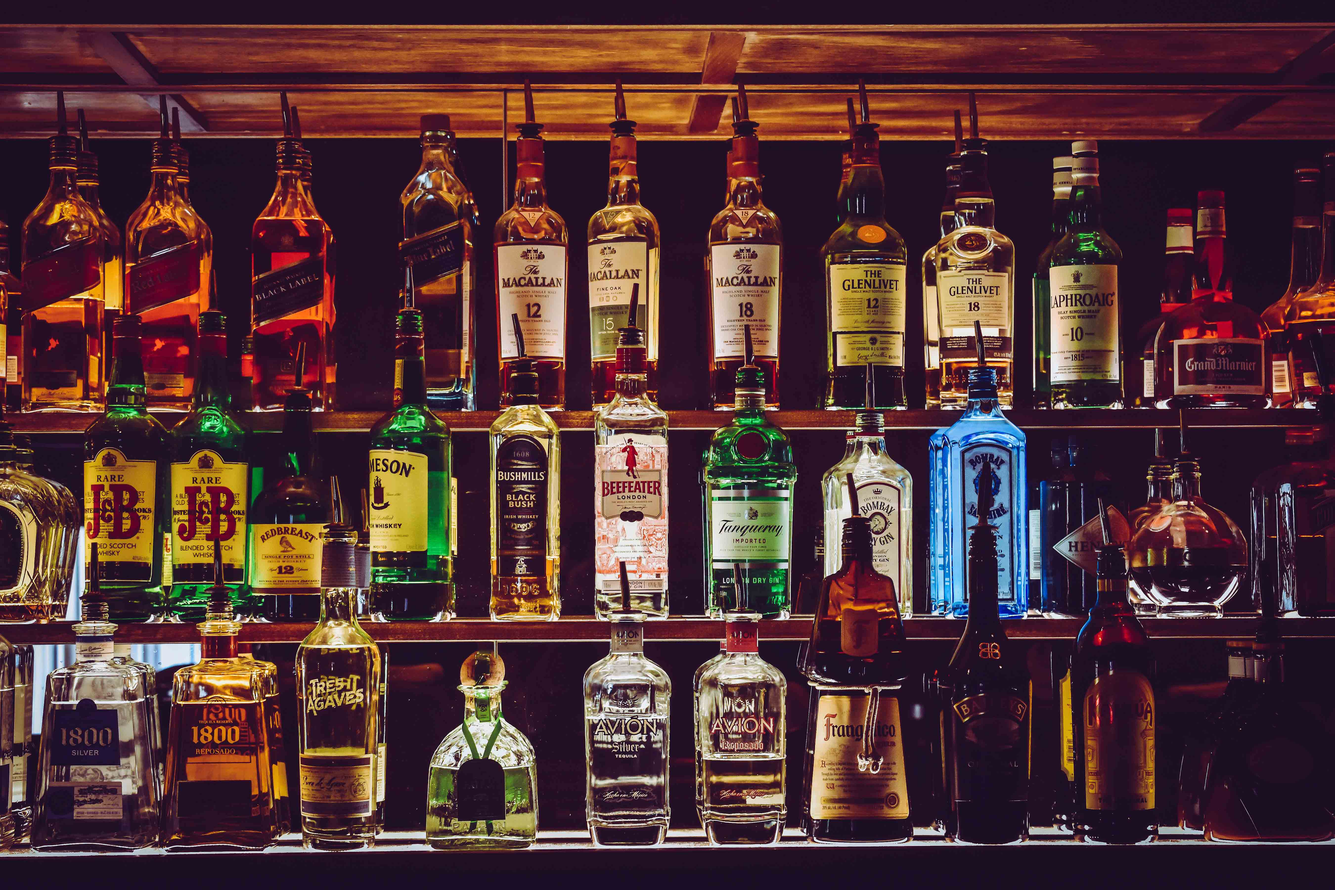
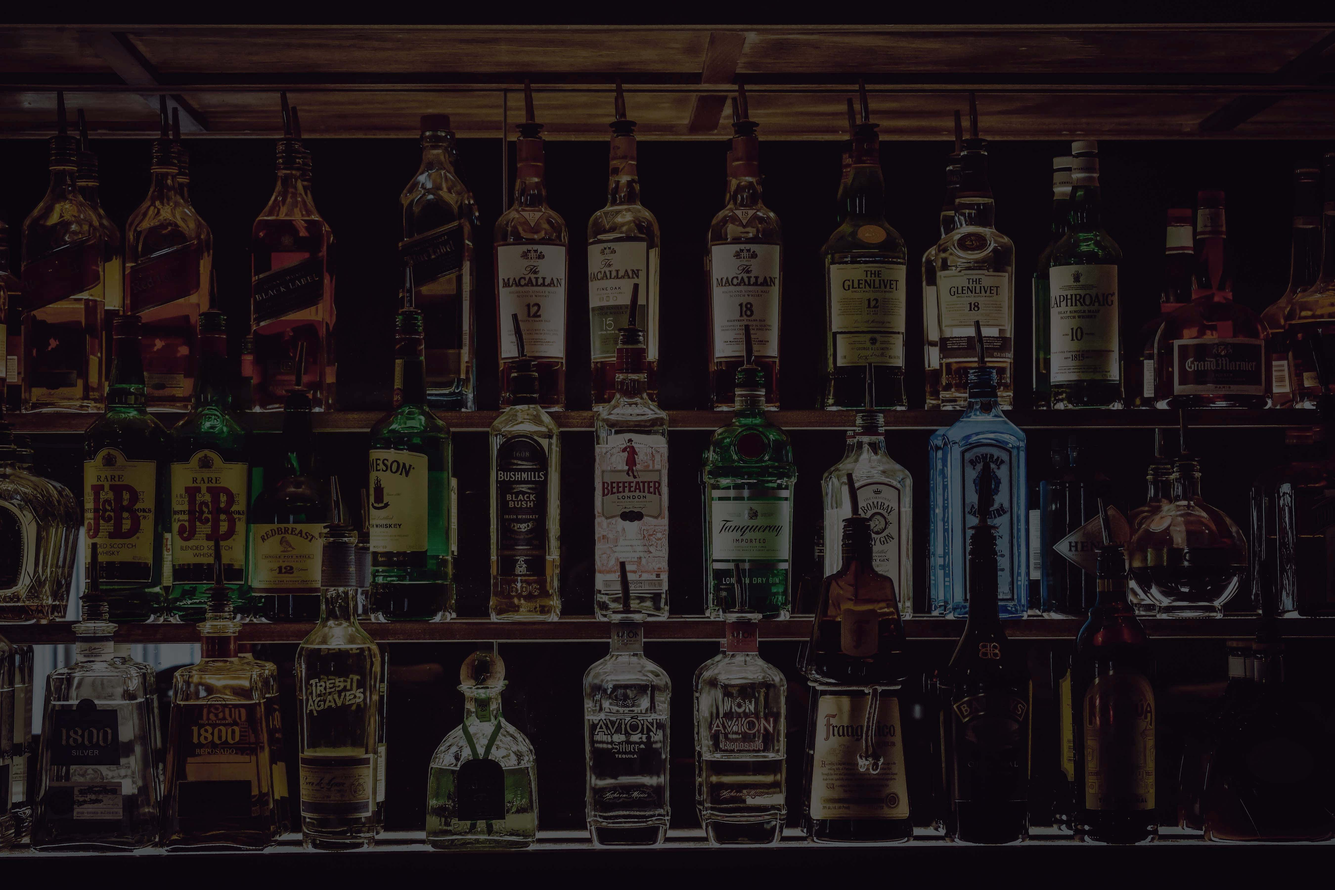
chore: Add more styling updates

diff --git a/css/style.css b/css/style.css
@@ -189,7 +189,11 @@ button.navbar-toggler {
 }
 .menu-card {
     max-width: 300px;
-    max-height: 400px;
+    max-height: 600px;
+}
+.menu-card:hover {
+    transform: scale(1.1, 1.1);
+    z-index: 9999;
 }
 .menu-img {
     width: 100%;
@@ -200,21 +204,8 @@ button.navbar-toggler {
 
 /* reservation block */
 #reservation {
-    position: relative;
-}
-#reservation::before {
-    content: "";
-    position: absolute;
-    top: 0;
-    left: 0;
-    width: 100%;
-    height: 100%;
     background-image: url("../img/bar.jpg");
     background-size: cover;
-    filter: brightness(0.8);
-}
-.reservation-inside {
-    position: relative;
 }
 
 /* contact block */
@@ -265,6 +256,11 @@ button.navbar-toggler {
 .to-top {
     z-index: 9999;
 }
+@media (min-width: 992px) {
+	.vh-lg-100 {
+		height: 100vh !important;
+	}
+}
 
 .zoom {
     animation: zoom 15s ease 0s normal both infinite;
@@ -305,4 +301,10 @@ button.navbar-toggler {
     100% {
         transform: scale(1, 1);
     }
+}
+
+/* admin.php start */
+.admin-img {
+    width: 300px;
+    height: auto;
 }

diff --git a/index.php b/index.php
@@ -145,7 +145,7 @@ $rows = $db->query("SELECT * FROM `ps_menu` WHERE 1")->fetchAll();
     <!-- about end -->
 
     <!-- menu start -->
-    <section id="menu" class="container-fluid d-flex flex-column align-items-center p-0 pb-5">
+    <section id="menu" class="container-fluid vh-lg-100 d-flex flex-column align-items-center p-0 pb-5">
         <div class="row py-5 m-0 w-100">
             <div class="col text-center text-dark p-0">
                 <h1 class="">餐點介紹</h1>
@@ -165,7 +165,7 @@ $rows = $db->query("SELECT * FROM `ps_menu` WHERE 1")->fetchAll();
             <div class="tab-content bg-white d-flex justify-content-center bg-transparent" id="menu-tab-content">
                 <div class="tab-pane fade show active" id="nav-lunch">
                     <div class="row d-flex flex-row m-0 p-0">
-                        <div class="card-group">
+                        <div class="card-deck">
                             <?php
                             foreach ($rows as $row) {
                                 if ($row["category"] == "lunch") {
@@ -204,7 +204,7 @@ $rows = $db->query("SELECT * FROM `ps_menu` WHERE 1")->fetchAll();
                 </div>
                 <div class="tab-pane fade" id="nav-dinner">
                     <div class="row d-flex flex-row m-0 p-0">
-                        <div class="card-group">
+                        <div class="card-deck">
                             <?php
                             foreach ($rows as $row) {
                                 if ($row["category"] == "dinner") {
@@ -225,7 +225,7 @@ $rows = $db->query("SELECT * FROM `ps_menu` WHERE 1")->fetchAll();
                 </div>
                 <div class="tab-pane fade" id="nav-alcohol">
                     <div class="row d-flex flex-row m-0 p-0">
-                        <div class="card-group">
+                        <div class="card-deck">
                             <?php
                             foreach ($rows as $row) {
                                 if ($row["category"] == "drink") {
@@ -246,7 +246,7 @@ $rows = $db->query("SELECT * FROM `ps_menu` WHERE 1")->fetchAll();
                 </div>
                 <div class="tab-pane fade" id="nav-coffee">
                     <div class="row d-flex flex-row m-0 p-0">
-                        <div class="card-group">
+                        <div class="card-deck">
                             <?php
                             foreach ($rows as $row) {
                                 if ($row["category"] == "coffee") {
@@ -271,11 +271,12 @@ $rows = $db->query("SELECT * FROM `ps_menu` WHERE 1")->fetchAll();
     <!-- menu end -->
 
     <!-- reservation start -->
-    <section id="reservation" class="container-fluid px-0 pb-5">
-        <div class="reservation-inside">nothing</div>
+    <section id="reservation" class="container-fluid px-0">
         <div class="container table-responsive py-5">
-            <h1 class="text-center text-dark">預約訂位</h1>
-            <h5 class="text-center ps-text-gilded pb-5">請選擇時間、人數，並留下您的聯絡資訊</h5>
+            <div class="w-100 text-center mx-auto title-shadow">
+                <h1 class="text-center text-light">預約訂位</h1>
+                <h5 class="text-center ps-text-gilded pb-5">請選擇時間、人數，並留下您的聯絡資訊</h5>
+            </div>
             <form class="needs-validation pt-5" novalidate>
                 <table class="table table-light table-hover table-striped">
                     <tr>

diff --git a/admin.php b/admin.php
@@ -9,6 +9,7 @@ include_once('sql.php');
     <meta charset="UTF-8">
     <meta name="viewport" content="width=device-width, initial-scale=1.0">
     <meta http-equiv="X-UA-Compatible" content="ie=edge">
+    <link rel="stylesheet" href="css/style.css">
     <title>Document</title>
 </head>
 
@@ -35,7 +36,7 @@ include_once('sql.php');
                             <?= $row["id"] ?>
                         </td>
                         <td>
-                            <img src="<?= $row["img"] ?>" alt="">
+                            <img src="<?= $row["img"] ?>" class="admin-img" alt="">
                             <input type="file" name="img[<?= $row["id"] ?>]" id="">
                         </td>
                         <td>
@@ -59,7 +60,7 @@ include_once('sql.php');
         <input type="submit">
         <!-- 刪除 -->
         <?php
-        $newname = 
+        $newname =
         unlink("img/".$newname);
         ?>
         <input type="button" names="">
